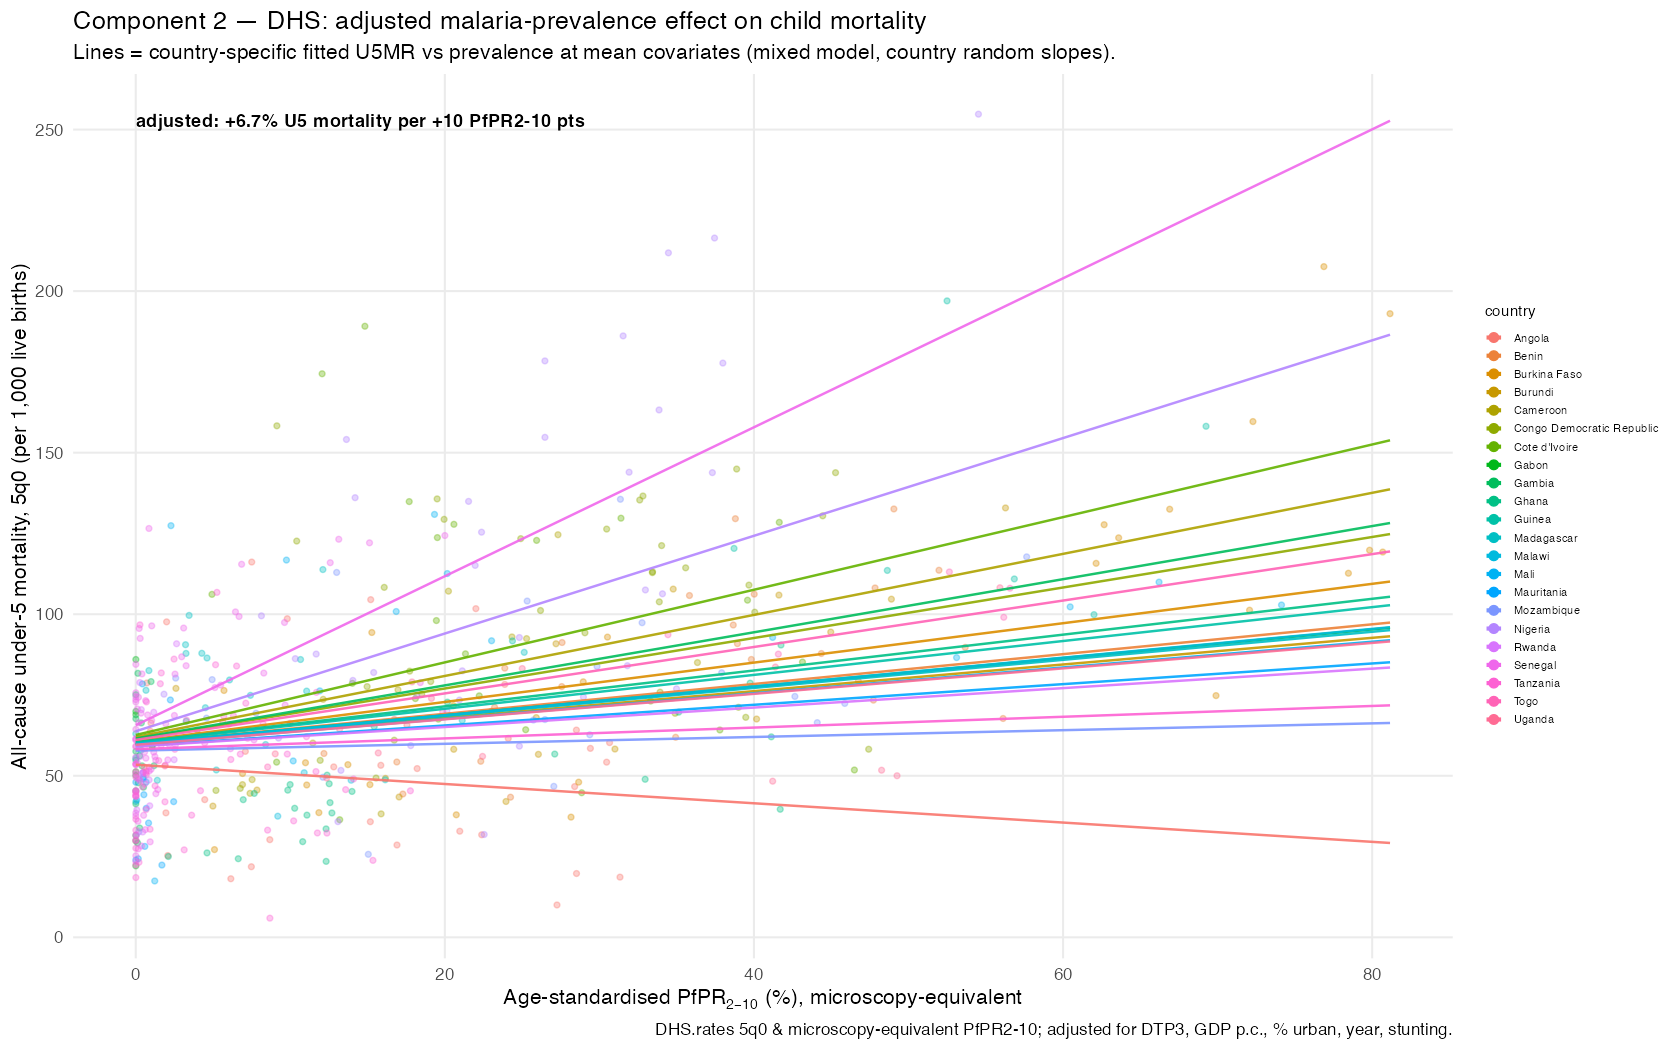
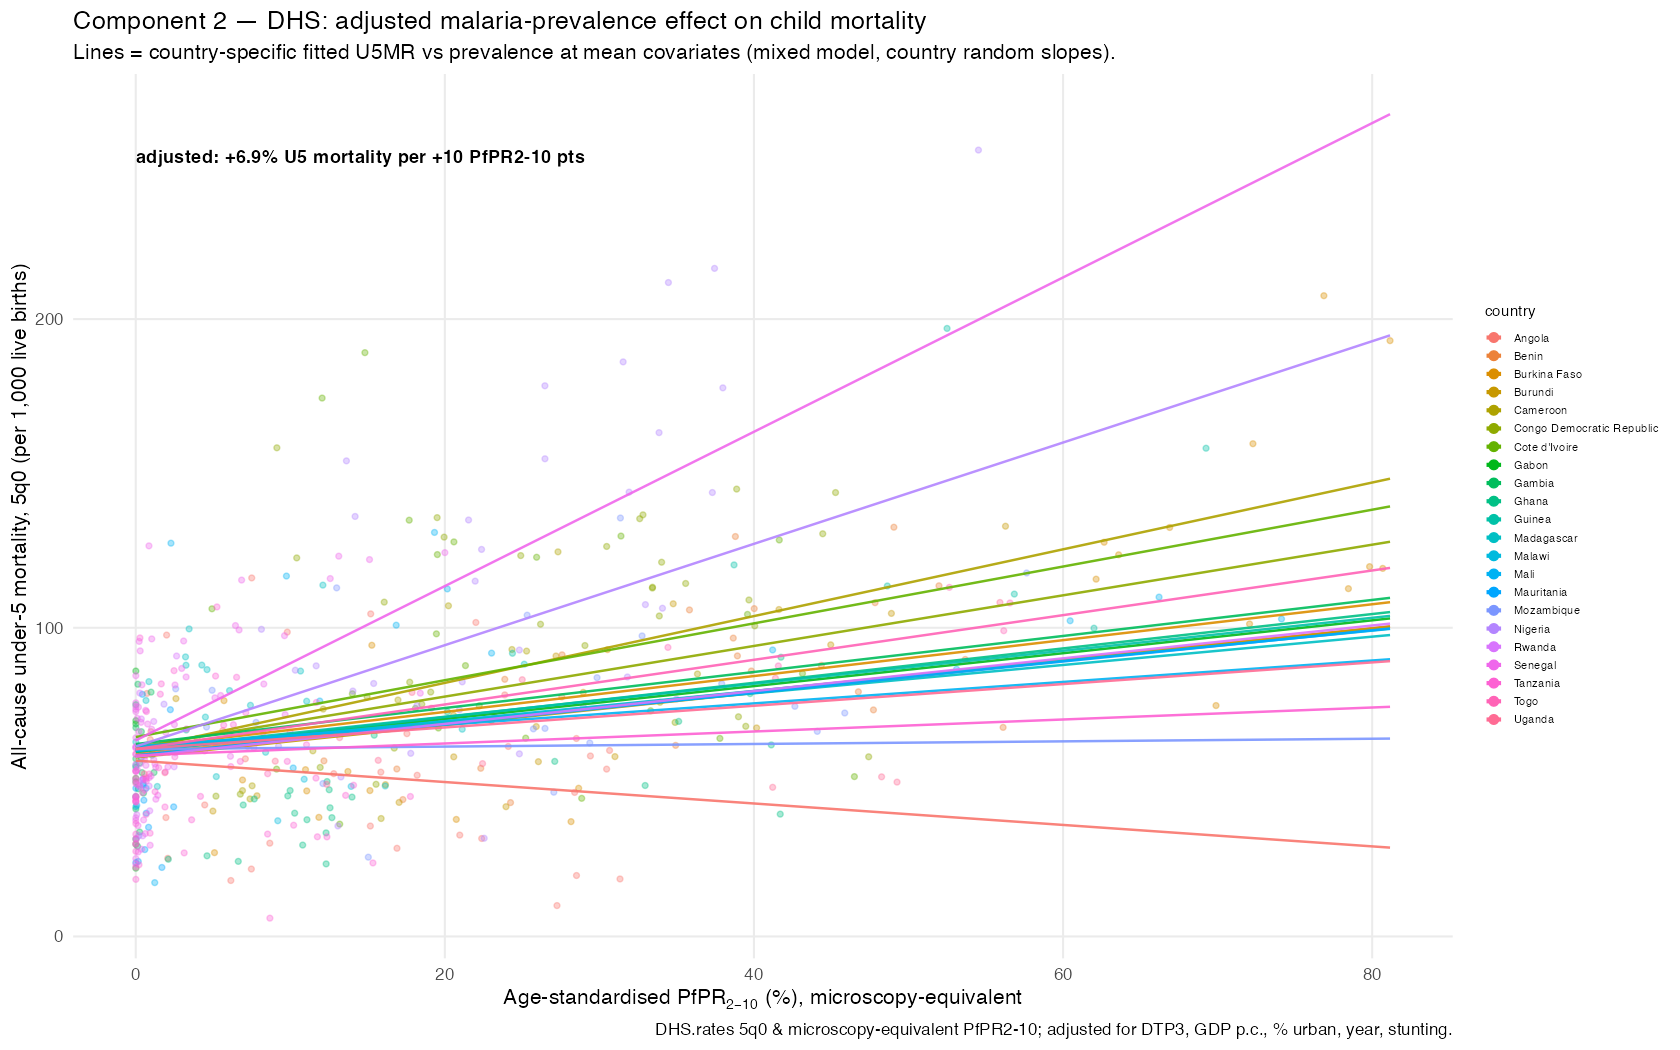
Component 2: use uncorrelated country random effects (1 + pfpr10 || country)
Removes the singular intercept-slope covariance (was corr=1.00); all four fits
(main + PfPR 5-50% sensitivity, U5MR + 1mo-5y) now non-singular. Fixed effects
essentially unchanged: U5MR +6.9% (CI +2.3 to +11.7), 1mo-5y +11.7% per +10
PfPR2-10 pts. README updated.

diff --git a/README.md b/README.md
@@ -87,7 +87,9 @@ A mixed-effects model is then fit on the **log** of mortality (so coefficients a
 % changes):
 ```
 log(mortality) ~ PfPR2-10 + DTP3 + log(GDP p.c.) + % urban + calendar year
-                 + stunting + (1 + PfPR2-10 | country) + (1 | survey)
+                 + stunting + (1 + PfPR2-10 || country) + (1 | survey)
+                 # || = uncorrelated country random intercept & slope (avoids a
+                 #      singular intercept-slope covariance; fixed effects unchanged)
 ```
 for both U5MR and 1mo–5y mortality. The headline is the adjusted **% change in
 under-5 mortality per +10 PfPR₂₋₁₀ points**, with country-specific random slopes.
@@ -116,12 +118,12 @@ _(reproduced by the pipeline into `results/`)_
 - **Component 3:** microscopy ≈ **0.74 × RDT** (r ≈ 0.90, 431 survey-regions).
 - **Component 1:** `results/component1_share_vs_pfpr.png`, `component1_model_coefficients.csv`, `component1_outliers.csv`.
 - **Component 2** (600 survey-regions, 44 surveys, 23 countries; adjusted for DTP3,
-  GDP p.c., % urban, year, stunting): **+6.7% under-5 mortality per +10 PfPR₂₋₁₀
-  points** (95% CI +2.4 to +11.2), and **+11.7% for 1mo–5y mortality**
-  (95% CI +5.3 to +18.4). **Sensitivity** restricting to mid-transmission regions
-  (PfPR₂₋₁₀ 5–50%, 354 regions): attenuated to +5.1% (CI −0.7 to +11.2) for U5MR
-  and +7.7% (CI +0.1 to +15.9) for 1mo–5y — positive but weaker/less precise over
-  the narrower range. See `results/component2_country_slopes.png`,
+  GDP p.c., % urban, year, stunting): **+6.9% under-5 mortality per +10 PfPR₂₋₁₀
+  points** (95% CI +2.3 to +11.7), and **+11.7% for 1mo–5y mortality**
+  (95% CI +5.3 to +18.5). **Sensitivity** restricting to mid-transmission regions
+  (PfPR₂₋₁₀ 5–50%, 354 regions): attenuated to +4.9% (CI −1.2 to +11.4) for U5MR
+  and +7.5% (CI −0.7 to +16.3) for 1mo–5y — positive but weaker/non-significant over
+  the narrower range. All four fits are non-singular. See `results/component2_country_slopes.png`,
   `component2_model_coefficients.csv` (`sample` column = `full` / `pfpr_5_50`),
   `component2_country_slopes.csv`.
 
